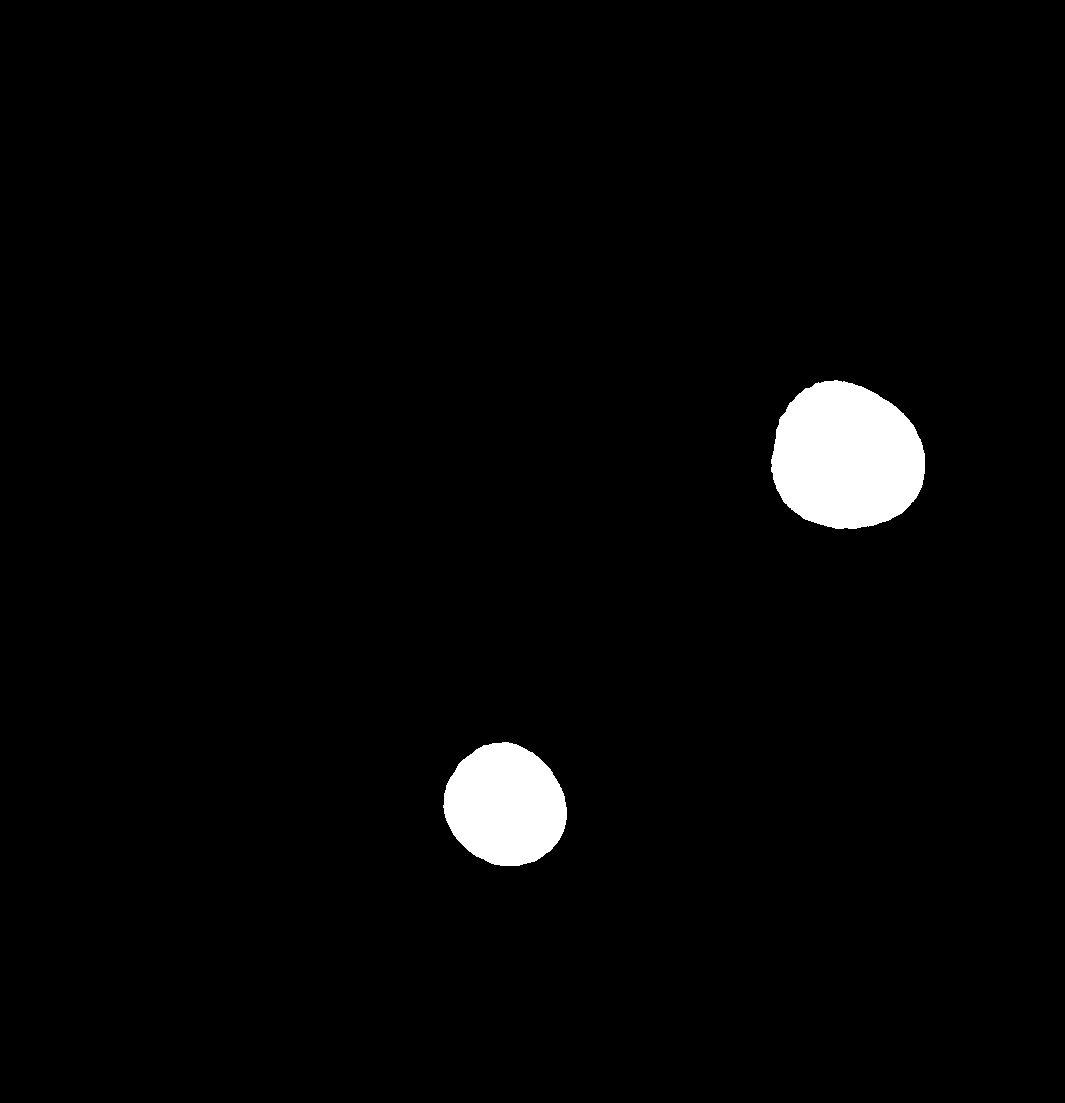
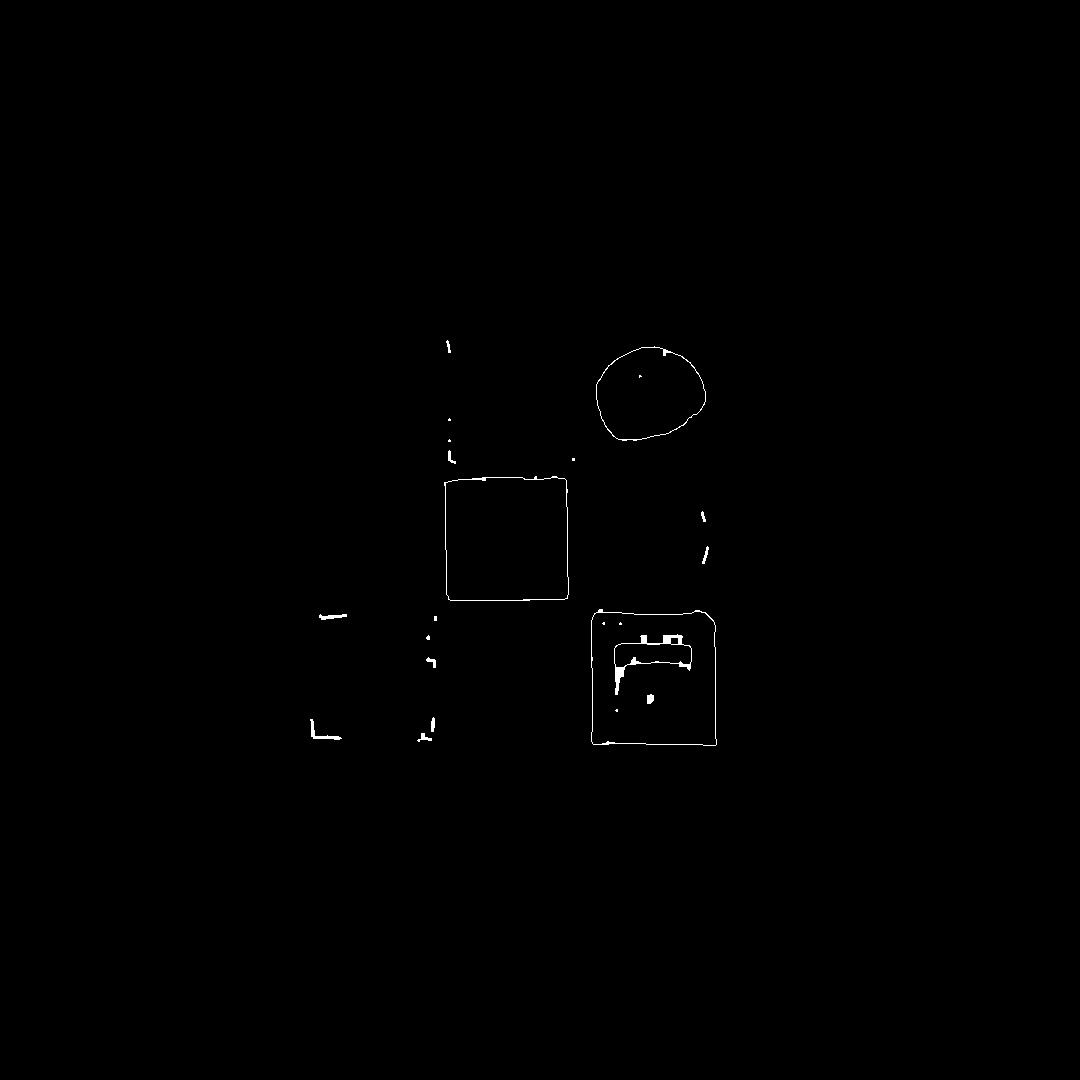
переработанны класс фильтра

diff --git a/Classes/Classificate.py b/Classes/Classificate.py
@@ -10,48 +10,103 @@ class ColorClassif(IClassesificationType):
     __high = None
 
     def img_approximation(self, img):
-        img = cv2.cvtColor(img, cv2.COLOR_BGR2HSV)
-        img = cv2.medianBlur(img, 5)
+        img_hsv = cv2.cvtColor(img, cv2.COLOR_BGR2HSV)
         low_color = np.array(self.__low, np.uint8)
         high_color = np.array(self.__high, np.uint8)
-        img_filter = cv2.inRange(img, low_color, high_color)
-        return img_filter
+        img_filter = cv2.inRange(img_hsv, low_color, high_color)
+        img = cv2.bitwise_and(img, img, mask=img_filter)
+        cv2.imwrite("img/mask.jpg", img)
+        img = cv2.medianBlur(img, 5)
+        img_gray = cv2.cvtColor(img, cv2.COLOR_BGR2GRAY)
+        cv2.imwrite("img/Blur.jpg", img_gray)
+        img_filter = cv2.Canny(img_gray, 10, 250)
+        kernel = cv2.getStructuringElement(cv2.MORPH_RECT, (5, 5))
+        closed = cv2.morphologyEx(img_filter, cv2.MORPH_CLOSE, kernel)
+        cv2.imwrite("img/close.jpg", closed)
+        return closed
 
     def __init__(self, low, high):
         self.__low = low
         self.__high = high
 
     def cycle(self, img):
-        contours, _ = cv2.findContours(self.img_approximation(img), cv2.RETR_TREE, cv2.CHAIN_APPROX_SIMPLE)
+        contours = cv2.findContours(self.img_approximation(img), cv2.RETR_EXTERNAL, cv2.CHAIN_APPROX_SIMPLE)[0]
         cnt_list = []
+        max_area = 0
         for cnt in contours:
-            approx = cv2.approxPolyDP(cnt, 0.01 * cv2.arcLength(cnt, True), True)
-            if len(cnt) > 100 and len(approx) > 10:
+            approx = cv2.approxPolyDP(cnt, 0.02 * cv2.arcLength(cnt, True), True)
+            line_len = len(cnt)
+            if line_len > 100 and len(approx) >= 8:
                 ellipse = cv2.fitEllipse(cnt)
-                cnt_list.append([int(ellipse[0][0]), int(ellipse[0][1]), 'cycle'])
-        return cnt_list
+                max_area = line_len if line_len > max_area else max_area
+                cnt_list.append((int(ellipse[0][0]), int(ellipse[0][1]), line_len, len(approx)))
+        squ = list(filter(lambda x: x[3] >= 8 and x[2] == max_area, cnt_list))
+        return [[squ[0][0], squ[0][1], 'cycle']]
 
     def square(self, img):
-        contours, _ = cv2.findContours(self.img_approximation(img), cv2.RETR_TREE, cv2.CHAIN_APPROX_SIMPLE)
-        cnt_list = []
+        '''contours = cv2.findContours(self.img_approximation(img), cv2.RETR_EXTERNAL, cv2.CHAIN_APPROX_SIMPLE)[0]
+        sqr_list = []
+        min_area = 10000000
         for cnt in contours:
             x, y, w, h = cv2.boundingRect(cnt)
+            approx = cv2.approxPolyDP(cnt, 0.02 * cv2.arcLength(cnt, True), True)
+            area = w * h / 100
+            cv2.drawContours(img, [approx], -1, (255, 0, 0), 4)
+            cv2.imwrite("img/test.jpg", img)
+            print(area, len(approx))
+            if len(approx) == 4 and area > 100:
+                min_area = area if min_area > area else min_area
+                sqr_list.append((len(approx), w * h / 100, int(x + w / 2), int(y + h / 2)))
+        squ = list(filter(lambda x: x[0] == 4 and x[1] == min_area, sqr_list))
+        return [[squ[0][2], squ[0][3], 'square']]'''
+        img_new = self.img_approximation(img)
+        linse = cv2.HoughLinesP(img_new, 1, np.pi / 180, 50, minLineLength=30, maxLineGap=10)
+        contours = cv2.findContours(img_new, cv2.RETR_EXTERNAL, cv2.CHAIN_APPROX_SIMPLE)[0]
+        cnt_list = []
+        for cnt in contours:
             approx = cv2.approxPolyDP(cnt, 0.01 * cv2.arcLength(cnt, True), True)
-            if len(approx) < 7 and w * h / 100 > 290:
+            x, y, w, h = cv2.boundingRect(cnt)
+            #  print(len(approx), w * h / 100)
+            if len(approx) == 4 and 170 >= w * h / 100 > 0.5:
                 cnt_list.append([int(x + w / 2), int(y + h / 2), 'square'])
-        return cnt_list
+        cnt_list.sort(key=lambda i: i[0] and i[1], reverse=False)
+        linse_in_squ = []
+        center_list = []
+        for i in cnt_list:
+            for j in linse:
+                x_mid = int((j[0][0] + j[0][2]) / 2)
+                y_mid = int((j[0][1] + j[0][3]) / 2)
+                if fabs(i[1] - y_mid) < 45 and fabs(i[0] - x_mid) < 45:
+                    linse_in_squ.append(j)
+            if len(linse_in_squ) == 0:
+                center_list.append(i)
+                break
+            else:
+                linse_in_squ.clear()
+        return center_list
 
     def square_with_a_hole(self, img):
-        contours, _ = cv2.findContours(self.img_approximation(img), cv2.RETR_TREE, cv2.CHAIN_APPROX_SIMPLE)
+        img_new = self.img_approximation(img)
+        linse = cv2.HoughLinesP(img_new, 1, np.pi / 180, 50, minLineLength=30, maxLineGap=10)
+        contours = cv2.findContours(img_new, cv2.RETR_EXTERNAL, cv2.CHAIN_APPROX_SIMPLE)[0]
         cnt_list = []
         for cnt in contours:
-            approx = cv2.approxPolyDP(cnt, 0.01 * cv2.arcLength(cnt, True), True)
+            approx = cv2.approxPolyDP(cnt, 0.001 * cv2.arcLength(cnt, True), True)
             x, y, w, h = cv2.boundingRect(cnt)
-            if len(approx) < 9 and 290 > w * h / 100 > 0.5:
+            #  print(len(approx), w * h / 100)
+            if len(approx) > 4 and 170 >= w * h / 100 > 0.5:
                 cnt_list.append([int(x + w / 2), int(y + h / 2), 'square_with_a_hole'])
-        cnt_list.sort(key=lambda i: i[0], reverse=True)
+        cnt_list.sort(key=lambda i: i[0] and i[1], reverse=False)
+        linse_in_squ = []
         center_list = []
-        for i in range(0, len(cnt_list), 2):
-            if fabs(cnt_list[i][0] - cnt_list[i][0]) < 20:
-                center_list.append(cnt_list[i])
+        for i in cnt_list:
+            for j in linse:
+                x_mid = int((j[0][0] + j[0][2]) / 2)
+                y_mid = int((j[0][1] + j[0][3]) / 2)
+                if fabs(i[1] - y_mid) < 45 and fabs(i[0] - x_mid) < 45:
+                    linse_in_squ.append(j)
+            if 5 > len(linse_in_squ) > 0:
+                center_list.append(i)
+                break
         return center_list
+

diff --git a/MainCl.py b/MainCl.py
@@ -1,15 +1,58 @@
 import cv2
 from Classes import Classificate
+import numpy as np
 
-img_uri = "tuA-YNuPOsE.jpg"
+img_uri = "RBkvD8nyo-4.jpg"
+
+
+def nothing(x):
+    pass
+
 
 img = cv2.imread(img_uri)
-filter_red = Classificate.ColorClassif((0, 50, 150), (10, 255, 255))
-filter_blue = Classificate.ColorClassif((94, 80, 2), (126, 255, 255))
-filter_green = Classificate.ColorClassif((35, 150, 50), (75, 255, 255))
-filter_list = [filter_red, filter_blue, filter_green]
+filter_red = Classificate.ColorClassif((164, 93, 121), (255, 255, 255))
+filter_blue = Classificate.ColorClassif((86, 132, 25), (162, 255, 255))
+filter_green = Classificate.ColorClassif((70, 93, 42), (95, 255, 255))
+filter_list = [filter_green, filter_red, filter_blue]
 
 list_center = []
+
+print(filter_blue.square_with_a_hole(img))
+print(filter_blue.cycle(img))
+print(filter_blue.square(img))
+
+def test():
+    cv2.namedWindow("Tracking")
+    cv2.createTrackbar("LowH", "Tracking", 0, 255, nothing)
+    cv2.createTrackbar("LowS", "Tracking", 0, 255, nothing)
+    cv2.createTrackbar("LowV", "Tracking", 0, 255, nothing)
+    cv2.createTrackbar("UnH", "Tracking", 255, 255, nothing)
+    cv2.createTrackbar("UnS", "Tracking", 255, 255, nothing)
+    cv2.createTrackbar("UnV", "Tracking", 255, 255, nothing)
+    while True:
+        frame = cv2.imread(img_uri)
+        hsv = cv2.cvtColor(frame, cv2.COLOR_BGR2HSV)
+        l_h = cv2.getTrackbarPos("LowH", "Tracking")
+        l_s = cv2.getTrackbarPos("LowS", "Tracking")
+        l_v = cv2.getTrackbarPos("LowV", "Tracking")
+
+        h_h = cv2.getTrackbarPos("UnH", "Tracking")
+        h_s = cv2.getTrackbarPos("UnS", "Tracking")
+        h_v = cv2.getTrackbarPos("UnV", "Tracking")
+
+        l_d = np.array([l_h, l_s, l_v])
+        h_d = np.array([h_h, h_s, h_v])
+        mask = cv2.inRange(hsv, l_d, h_d)
+        mask = cv2.medianBlur(mask, 5)
+        res = cv2.bitwise_and(frame, frame, mask=mask)
+
+        cv2.imshow("Frame", frame)
+        cv2.imshow("Mask", mask)
+        cv2.imshow("REs", res)
+
+        key = cv2.waitKey(1)
+        if key == 27:
+            break
 
 
 def main_classificate(img):
@@ -23,5 +66,8 @@ def main_classificate(img):
             img = cv2.circle(img, (j[0], j[1]), 3, (255, 255, 255), 2)
     cv2.imwrite("now.jpg", img)
 
-
 main_classificate(img)
+#  test()
+
+img = cv2.Canny(img, 100, 200)
+cv2.imwrite("canny.jpg", img)
